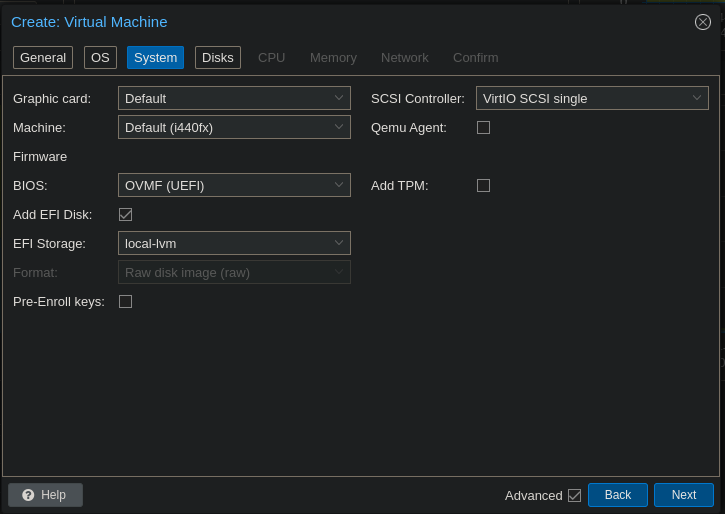
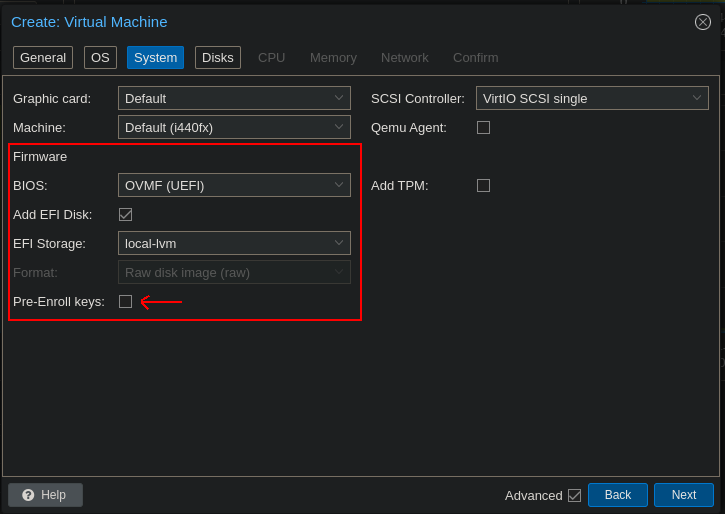
Added more Proxmox details

diff --git a/docs/1_proxmox.md b/docs/1_proxmox.md
@@ -10,7 +10,7 @@ The initial Proxmox configuration is relatively simple, but crucial to get right
 
 To solve that, we assign static IP and network configurations for the Proxmox machine on the `vmbr0` bridge (our LAN bridge) instead of using DHCP, and we will reflect that with a static mapping on our pfSense settings. Thus, while Proxmox itself is booting, it will not have internet connectivity or a DCHP server to request an address lease, but once it spins up the pfSense VM - which we configure to turn on immediately on boot - it will get a connection and have all the access it needs.
 
-This brings us to another point simple but important point: VM boot order. Proxmox has a really nifty feature, where we can choose not only whether to spin up a VM on boot, but the order in which to do so and the delay between each VM spinup. Thus, we configured the pfSense VM to immediately spin up on boot, and only after a 240-second delay to ensure it is fully up, we progressively turn on the other VMs that rely on networking being up to function. We will get to those in the later steps of the project. Here's the configuration for the pfSense VM:
+This brings us to another point simple but important point: VM boot order. Proxmox has a really nifty feature, where we can choose not only whether to spin up a VM on boot, but the order in which to do so and the delay between each VM spinup. Thus, we configured the pfSense VM to immediately spin up on boot, and only after a 240-second delay to ensure it is fully up, we progressively turn on the other VMs that rely on networking being up to function. We will get to those in the later steps of the project. Here's the boot order configuration for the pfSense VM:
 
 ![](../media/proxmox_pfsense_bootorder.png)
 
@@ -29,15 +29,66 @@ Here's a screenshot of our Proxmox network configuration:
 
 ## Services and VMs
 
-
-
-### Template VM
+To keep all the documentation organized, we'll cover the Proxmox side of the setup of all the following services here, and the remainder of the setup in the service's respective platform in their own documents.
 
 ### pfSense
 
+TODO
+
+### Template VM
+
+One of the great practicalities of having a Proxmox server running is how quickly we can spin up a VM - whether that is for deploying some permanent service or just testing. And with each VM completely isolated from each other, we risk very little in terms of breaking anything we've already deployed.  
+
+To make this process even faster and effortless, we can make a template VM: that is, a VM that we can't actually turn on, but can quickly clone into separate VMs which are all pre-configured the way we want. This way, we don't have to go through all the installation and configuration process of an OS - like Ubuntu - every time we want to create a quick VM.
+
+For this, we'll create a Ubuntu Server template and make use of the built-in [CloudInit](https://cloud-init.io/) functionality on Proxmox. With it, we can pre-configure this template to have our personal linux user, SSH keys, and networking configurations, and let CloudInit take care of the rest.
+
+While we did this process manually, we found this bash script that does essentially what we did, which we modified and included below for brevity:
+
+```bash
+# Download fresh copy of the image. Delete if already installed.
+cd
+rm -f jammy-server-cloudimg-amd64.img
+wget -q https://cloud-images.ubuntu.com/jammy/current/jammy-server-cloudimg-amd64.img
+
+# Create VM
+sudo qm create 9000 --name "ubuntu-2204-cloudinit-template" --memory 2048 --cores 2 --net0 virtio,bridge=vmbr0
+sudo qm importdisk 9000 jammy-server-cloudimg-amd64.img local-lvm
+sudo qm set 9000 --scsihw virtio-scsi-pci --scsi0 local-lvm:vm-9000-disk-0
+sudo qm set 9000 --boot c --bootdisk scsi0
+sudo qm set 9000 --ide2 local-lvm:cloudinit
+sudo qm set 9000 --serial0 socket --vga serial0
+sudo qm set 9000 --agent enabled=1
+sudo qm template 9000
+
+# Delete image, not needed anymore.
+rm -f jammy-server-cloudimg-amd64.img
+```
+(Script from [here](https://austinsnerdythings.com/2023/01/10/proxmox-ubuntu-22-04-jammy-lts-cloud-image-script/))
+
+Now, we can finish setting up our CloudInit options on the Proxmox UI under our new VM:
+
+![](../media/proxmox_cloudinit.png)
+
+and every time a new VM is made with this template, it will already have the correct linux user created, with our password, and our SSH keys preinstalled; all we have to do is SSH into the machine and start our new project!
+
 ### PiHole
 
+TODO
+
 ### TrueNAS
+
+We first created another VM in Proxmox and set it to boot using the ISO image downloaded from the following [link](https://www.truenas.com/download-truenas-scale/).
+
+Since [TrueNAS Core](https://www.truenas.com/truenas-core/), like pfSense, is based on FreeBSD and not on Linux, an important step in the VM setup is to change the *OS Type* to *Other*:
+
+![](../media/proxmox_truenas_OS.png)
+
+Also, we want the TrueNAS VM to have full access to the disk we installed for it - that iss, we need to pass through the disk to the VM on our hypervisor. For that, we followed [these steps](https://pve.proxmox.com/wiki/Passthrough_Physical_Disk_to_Virtual_Machine_(VM)) from Proxmox's documentation to pass through our physical disk to the VM we just created without a PCIe controller. We can confirm that the disk was added by checking the Hardware tab for the VM in Proxmox:
+
+![](../media/proxmox_truenas_disk.png)
+
+Now, we just need to turn the VM on and follow the TrueNAS installation, which we documented [here](4_truenas.md#installation)
 
 ### HomeAssistant
 
@@ -51,15 +102,15 @@ Then, we created a new VM with no local disk:
 
 ![](../media/proxmox_homeassistant_OS.png)
 
-From there, under the *System* tab, we change the BIOS to UEFI, select the EFI Storage, and **disable** *Pre-enrolled keys*, or otherwise the HomeAssistantOD does not boot:
+From there, under the *System* tab, we change the BIOS to UEFI, select the EFI Storage, and **disable** *Pre-enrolled keys*, or otherwise the HomeAssistant OS does not boot:
 
 ![](../media/proxmox_homeassistant_System.png)
 
-Then, on the *Disks we delete the *scsi0* default disk since we downloaded as we'll be importing the one we downloaded previously from the HomeAssistant guide. After that, we give the VM 2 CPU cores and 2GB of RAM - as these are the minimum recommended specs, as can be seen [here](https://www.home-assistant.io/installation/alternative#create-the-virtual-machine) -, and finally we select `vmbr0` as our network (as we established that this is our LAN bridge).
+Then, on the *Disks* tab we delete the *scsi0* default disk since we downloaded as we'll be importing the one we downloaded previously from the HomeAssistant guide. After that, we give the VM 2 CPU cores and 2GB of RAM - as these are the minimum recommended specs, as can be seen [here](https://www.home-assistant.io/installation/alternative#create-the-virtual-machine) -, and finally we select `vmbr0` as our network (as we established that this is our LAN bridge).
 
 Optionally, we can also set this VM to turn on on boot, so it will automatically spin up. This is recommended, as we might depend on it for many home functions.
 
-Our VM setup is almost done, all we now have to do is attach our downloaded disk onto the VM. We first extract the *.xz* file we downloaded and import it onto the VM with
+Our VM setup is almost done, all we now have to do is attach our downloaded disk to the VM. We first extract the *.xz* file we downloaded and import it onto the VM with
 
 ```bash
 unxz haos_ova-12.2.qcow2.xz
@@ -68,4 +119,6 @@ qm importdisk <VM ID> haos_ova-12.2.qcow2.xz local-lvm
 
 Now, all we have to do is turn on the VM and follow HomeAssistant's Installation, which we go over [here](5_homeassistant.md#instalaltion).
 
-### k3s
+<!-- ### k3s
+
+TODO -->

diff --git a/docs/2_pfsense.md b/docs/2_pfsense.md
@@ -45,19 +45,27 @@ The next step is to set up our DCHP server, which is simple. All we do is go to 
 
 As mentioned many times, we will assign static IP addresses for all of our core devices and services that we will need to address in the future: our Proxmox server, pfSense, PiHole VM, TrueNAS VM, HomeAssistant VM, our PC (for remote access, so we can access all our resources from our laptop from anywhere), etc. All of these static mappings live here.
 
+![](../media/pfsense_dchp_leases.png)
+
 ### DNS
+
+While DNS is not strictly speaking a hard concept to understand, or a hard part of the project to implement, it is more often than not the source of many of the problems we faced in our Homelab project, and it is generally very hard to trace.
+
+Here's a beautiful *haiku* we found about this, which helps us always remember to check DNS before we find ourselves too deep into trying to solve a seemingly unrelated and unsolvable problem:
+
+![](https://www.cyberciti.biz/media/new/cms/2017/04/dns.jpg)
 
 #### DNS Resolver
 
 [**DNS Resolver**](https://docs.netgate.com/pfsense/en/latest/services/dns/resolver.html) is one of the services available in pfSense, which "utilizes `unbound`, which is a validating, recursive, caching DNS resolver that supports DNSSEC, DNS over TLS, and a wide variety of options. It can act in either a DNS resolver or forwarder role".
 
-We will use the **DNS Resolver** to make some DNS entries, so that we can have local addresses to our devices/VMs, and so we can resolve hosts by their hostname automatically, either from their DCHP lease, static mapping, or later by their hostname in OpenVPN.As an example, say we have a TV with hostname `rokutv`. Then, in HoimeAssistant, for example, we can refer to the TV by its hostname rather than its IP address, without having to manually add a DNS entry for every device - this is done automatically for us.
+We will use the **DNS Resolver** to make some DNS entries, so that we can have local addresses to our devices/VMs, and so we can resolve hosts by their hostname automatically, either from their DCHP lease, static mapping, or later by their hostname in OpenVPN. As an example, say we have a TV with hostname `rokutv`. Then, in HomeAssistant, for example, we can refer to the TV by its hostname rather than its IP address, without having to manually add a DNS entry for every device - this is done automatically for us.
 
-Strictly speaking, this could be done in PiHole, as it also has a DNS Resolver. However, it is somewhat limited, and we prefer to keep a separation of duties, where PiHole will only handle DNS blocking, and pfSense will handle all the hostname resolution - so we keep all network-related configurations in one place. Thus, if we think about the path a DNS request makes in our network, it will be:
+Strictly speaking, this could be done in PiHole, as it also has a DNS Resolver. However, it is somewhat limited, and we prefer to keep a separation of duties, where PiHole will only handle DNS blocking, and pfSense will handle all the local hostname resolution - so we keep all network-related configurations in one place. Thus, if we think about the path a DNS request makes in our network, it will be:
 
-`Device making request > pfSense's DNS Resolver > PiHole > Upstream DNS (Google's or Quad9)`
+**Device making request > pfSense's DNS Resolver > PiHole > Upstream DNS (Google's or Quad9)**
 
-As we mentioned in the Wizard section, we also added a public DNS service as a secondary DNS server in the General Configuration in case our PiHole fails, so we don't take down the entire network.
+As we mentioned in the Wizard section, we also added a public DNS service as a secondary DNS server in the General Configuration in case our PiHole fails, so we don't take down the entire network because one VM is down.
 
 #### PiHole
 
@@ -65,7 +73,17 @@ TODO
 
 #### DDNS
 
-TODO
+Since we're using Cloudflare as our DNS provider, to keep our "*homelab.com*" record always pointing to our home IP adrdess, all we have to do is navigate to **Services > Dynamic DNS** and click **Add**. From there, we just have to fill out the fields with our Cloudflare information, as pfSense instructs:
+
+![](../media/pfsense_ddns_setup.png)
+
+Since we are hosting all of our services from home, it is easier to make all of our subdomains automatically point to our home IP address with a single DDNS daemon. We can do this by putting a `@` on the *Hostname* field, followed by our *homelab.com* address on our domain field. If we were hosting other services in other places - like AWS, GCP, or anything else outside of our home - we could create one DDNS entry specifically for each subdomain hosted at home, so instead of `@` we could put something like `homeassistant`, if we wanted to access our HomeAssistant service from `homeassistant.homelab.com`.
+
+Another important thing is to enable the **Cloudflare Proxy**, which is supported out-of-the-box by pfSense. As the description states, this makes all of our services' traffic be routed to Cloudflare's servers before going to the requesting client. This has the benefits of hiding our home IP from the public, making use of Cloudflare's DDoS protection, and is fully encrypted between home and Cloudflare, where it will apply our TLS/SSL certificates there before forwarding the connection to the clients. And since we also bought our domains from Cloudflare, they automatically issue trusted TLS/SSL certificates for our "*homelab.com*", which makes our connection encrypted from end-to-end and very secure.
+
+With that done, we should have a successfully set up DDNS service which appears like so:
+
+![](../media/pfsense_ddns.png)
 
 ### VPN
 
@@ -74,14 +92,6 @@ One of the benefits of building a Homelab like we're doing is that we can host o
 #### OpenVPN
 
 TODO
-
-#### Tailscale
-
-TODO
-
-### Hosting
-
-TODO: HAAS
 
 #### HAProxy
 

diff --git a/docs/5_homeassistant.md b/docs/5_homeassistant.md
@@ -14,7 +14,7 @@ From there, we simply follow the setup steps: we create a user, set our location
 
 ## Configuration
 
-The setup process for HomeAssistant is very straightforward. The first-login wizard takes care of most essential configurations. Then, we just go to **Settings > General** and make sure that our region, language, timezone, dark mode, and all other similar settings about our home and UX are correct.
+The setup process for HomeAssistant is very straightforward. The first-login wizard takes care of the essential configurations. Then, we just go to **Settings > General** and make sure that our region, language, timezone, dark mode, and all other similar settings about our home and UI are correct.
 
 Another great thing about HomeAssistant is that they have great mobile apps. Aside from just providing access to the dashboard on the go, just like the web interface, it turns the phone itself into a collection of sensors. Once logged in, our phone will appear under devices, and if we go to **Settings > People > \<Your Username\>**, we can associate the phone to our Profile:
 
@@ -25,7 +25,7 @@ To log into our HOmeAssistant server on the mobile app, it will first ask for ou
 
 ## Devices
 
-Adding new devices is really simple: all we have to do is go to **Settings > Devices & Services**, and add the integration of the device we want to add! For the WiFi-enabled devices, we first set static IP mappings on pfSense first, so we never have to update any IPs here due to DHCP lease changes. We have a RokuTV and a few Wiz WiFi smartbulbs (which unfortunately broke after a few days, but not due to our setup). We also added the HomeKit Bridge integration, which allows us to control our devices transparently through iPhone's *Home* app, which also has Siri integration. Our devices now look like this:
+Adding new devices is simple: all we have to do is go to **Settings > Devices & Services**, and add the integration of the device we want to add! For the WiFi-enabled devices, we first set static IP mappings on pfSense first, so we never have to update any IPs here due to DHCP lease changes. We have a RokuTV and a few Wiz WiFi smart bulbs (which unfortunately broke after a few days, but not due to our setup). We also added the HomeKit Bridge integration, which allows us to control our devices transparently through iPhone's *Home* app, which also has Siri integration. Our devices now look like this:
 
 ![](../media/homeassistant_devices.png)
 

diff --git a/README.md b/README.md
@@ -52,7 +52,7 @@ Here's a table that summarizes all of our network design:
 | 10.10.2.0/24   	| Our main trusted VMs, such as networking-related VMs, TrueNAS, HomeAssistant... 	| Want to be reachable from trusted devices.                                                             	|
 | 10.10.3.0/24   	| IoT, untrusted devices.                                                         	| These should not be able to communicate with trusted devices and services, except for HomeAssistant.   	|
 | 10.10.4.0/24   	| IPTV Cameras - not in use currently, but in the future.                         	| These have no reason to have internet access.                                                          	|
-| 10.10.5.0/24   	|                                                                                 	|                                                                                                        	|
+| 10.10.5.0/24   	| ...                                                                             	|                                                                                                        	|
 | 10.10.100.0/24 	| Our DHCP server pool lives here.                                                	| Essentially a guest network, as all trusted devices will have static mappings.                         	|
 |                	|                                                                                 	|                                                                                                        	|
 

diff --git a/docs/4_truenas.md b/docs/4_truenas.md
@@ -2,11 +2,7 @@
 
 ## Installation
 
-We first created another VM in Proxmox and set it to boot using the ISO image downloaded from the following [link](https://www.truenas.com/download-truenas-scale/).
 
-We want to be able to use the SDD we bought for TrueNAS, so we followed [these steps](https://pve.proxmox.com/wiki/Passthrough_Physical_Disk_to_Virtual_Machine_(VM)) to pass through our physical disk to the VM we just created without a PCIe controller. We can confirm that the disk was added by checking the Hardware tab for the VM in Proxmox:
-
-![](../media/truenas_disk_proxmox.png)
 
 After this, we started the VM and went through the installation steps for TrueNAS. After the installation was successful, we had the following screen:
 

diff --git a/docs/3_pihole.md b/docs/3_pihole.md
@@ -108,7 +108,7 @@ Without Pi-hole, we get the following results:
 
 And with Pi-hole, we get:
 
-#### TODO
+TODO
 ![]()
 
 As you can see, most ads are being blocked and we can add any additional list of domains to our AdLists as we see fit.
